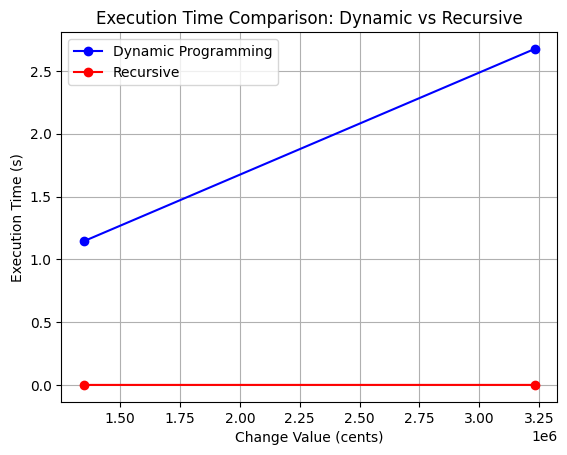
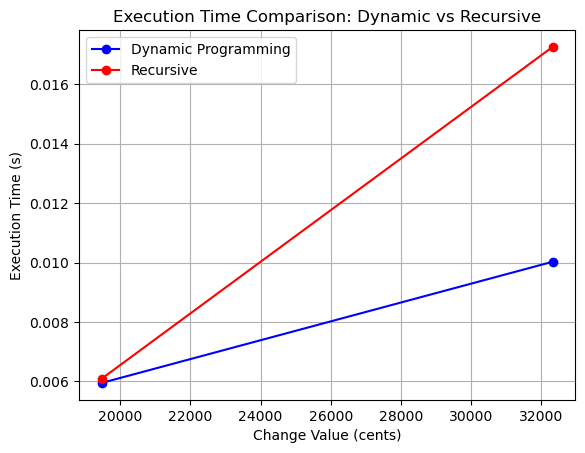
Atualizacao

Changed region(s): [[0.0, 0.0, 0.9894, 0.989], [0.2399, 0.7417, 0.2698, 0.7726]]

diff --git a/src/recursive_prog.py b/src/recursive_prog.py
@@ -1,46 +1,50 @@
 import time
 import os
-import sys
 from matplotlib import pyplot as plt
 
-# Aumentar ainda mais o limite de recursão
-sys.setrecursionlimit(50000)
-
-# Lista de moedas
+# Lista de moedas (em centavos, como inteiros)
 coins = [100, 50, 25, 10, 5]
 
-def calculate_minimum_change_recursive(change_value: int, result=None) -> list:
-    if result is None:
-        result = []
-    
-    # Arredondar o valor para evitar problemas com ponto flutuante
-    change_value = round(change_value, 2)
-    
-    # Caso base: quando o valor do troco for zero ou próximo de zero
-    if change_value <= 0.001:
-        return result
-    
-    # Encontrar a maior moeda que pode ser usada e usar o máximo possível dela
-    for coin in coins:
-        if change_value >= coin:
-            # Calcular quantas vezes podemos usar esta moeda
-            num_coins = int(change_value // coin)
-            result.extend([coin] * num_coins)
-            remaining = round(change_value - (coin * num_coins), 2)
-            
-            # Verificação adicional para evitar loops infinitos
-            if remaining < 0.001:
-                return result
-                
-            return calculate_minimum_change_recursive(remaining, result)
-    
-    return result
+def calculate_minimum_change(change_value: int) -> tuple:
+    """
+    Calculates the minimum number of coins needed to make a given amount using recursion with memoization.
 
+    Args:
+        change_value: The target amount.
 
-
-def measure_recursive_execution(value: int) -> tuple:
+    Returns:
+        The minimum number of coins needed, or -1 if it's not possible, and execution time.
+    """
+    # Memoization cache
+    memo = {}
+    
+    def min_coins(value: int) -> int:
+        # Base cases
+        if value == 0:
+            return 0
+        if value < 0:
+            return float('inf')
+        
+        # Check if already computed
+        if value in memo:
+            return memo[value]
+        
+        # Try each coin and find minimum
+        min_count = float('inf')
+        for coin in coins:
+            if coin <= value:
+                result = min_coins(value - coin)
+                if result != float('inf'):
+                    min_count = min(min_count, result + 1)
+        
+        # Store result in memo
+        memo[value] = min_count
+        return min_count
+    
     start = time.time()
-    result = calculate_minimum_change_recursive(value)
+    result = min_coins(change_value)
     end = time.time()
     exec_time = end - start
-    return result, exec_time
+    
+    # Return -1 if no solution found
+    return (result if result != float('inf') else -1, exec_time)

diff --git a/src/dynamic_prog.py b/src/dynamic_prog.py
@@ -14,19 +14,22 @@ def calculate_minimum_change(change_value: int) -> tuple:
         change_value: The target amount.
 
     Returns:
-        The minimum number of coins needed, or -1 if it's not possible.
+        The minimum number of coins needed, or -1 if it's not possible, and execution time.
     """
-    dp = [float('inf')] * (change_value + 1)
-    dp[0] = 0
-    start = time.time()
+    if change_value == 0:
+        return 0, 0.0
+
+    dp = [0] + [change_value + 1] * change_value  # Usa um valor máximo fixo
+
+    start = time.perf_counter()
+
     for coin in coins:
         for i in range(coin, change_value + 1):
-            dp[i] = min(dp[i], dp[i - coin] + 1)
+            if dp[i - coin] + 1 < dp[i]:
+                dp[i] = dp[i - coin] + 1
 
-    result = dp[change_value] if dp[change_value] != float('inf') else -1
-    
-    end = time.time()
-    exec_time = end - start
-    
-    return result, exec_time
+    end = time.perf_counter()
+
+    result = dp[change_value] if dp[change_value] <= change_value else -1
+    return result, end - start
 

diff --git a/src/main.py b/src/main.py
@@ -3,7 +3,7 @@ import os
 from matplotlib import pyplot as plt
 
 from dynamic_prog import calculate_minimum_change
-from recursive_prog import measure_recursive_execution
+from recursive_prog import calculate_minimum_change
 
 def compare_algorithms(change_values):
     dynamic_times = []
@@ -13,7 +13,7 @@ def compare_algorithms(change_values):
         _, dynamic_time = calculate_minimum_change(value)
         dynamic_times.append(dynamic_time)
         
-        _, recursive_time = measure_recursive_execution(value)
+        _, recursive_time = calculate_minimum_change(value)
         recursive_times.append(recursive_time)
     
     return dynamic_times, recursive_times
